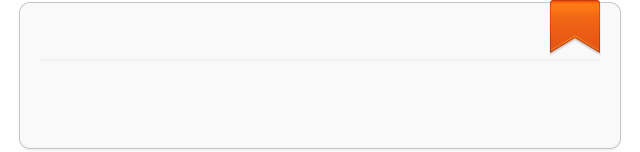
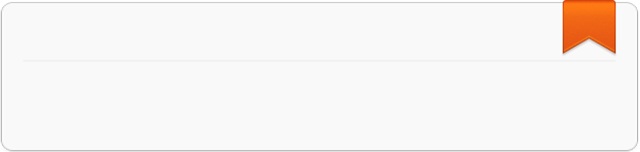
coding

Changed region(s): [[0.8438, 0.0, 1.0, 0.3684], [0.0, 0.9737, 1.0, 1.0], [0.0, 0.0, 0.0625, 0.0526]]

diff --git a/ZHDemo/ZHCollectionCell.m b/ZHDemo/ZHCollectionCell.m
@@ -12,7 +12,7 @@
 
 #define Default_Cell_Height											95
 
-#define CellContent_Left_Margin									15
+#define CellContent_Left_Margin									10
 #define CellContent_Top_Margin									15
 
 // Des
@@ -24,7 +24,7 @@
 #define BottomContent_To_Underline_Margin				10
 #define BottomContent_Avatar_To_Name_Margin			10
 #define BottomContent_Answer_Max_Width					70
-#define BottomContent_Answer_To_Right_Margin	  15
+#define BottomContent_Answer_To_Right_Margin	  10
 #define BottomContent_To_Bottom								  10
 
 

diff --git a/README.md b/README.md
@@ -3,5 +3,3 @@ ZHDemo
 7/13:初步完成第一个界面设计
 
 ![](./screenshot/1.png)
-
-![](./screenshot/2.png)
